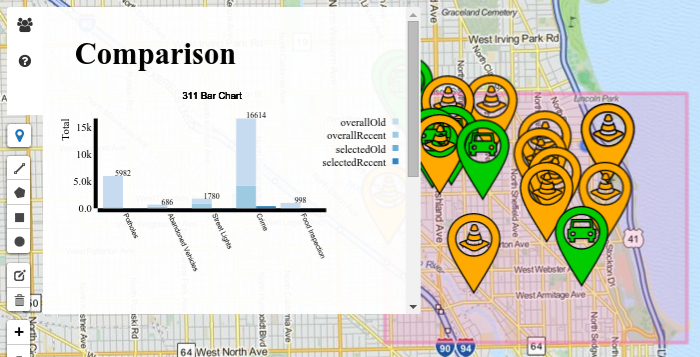
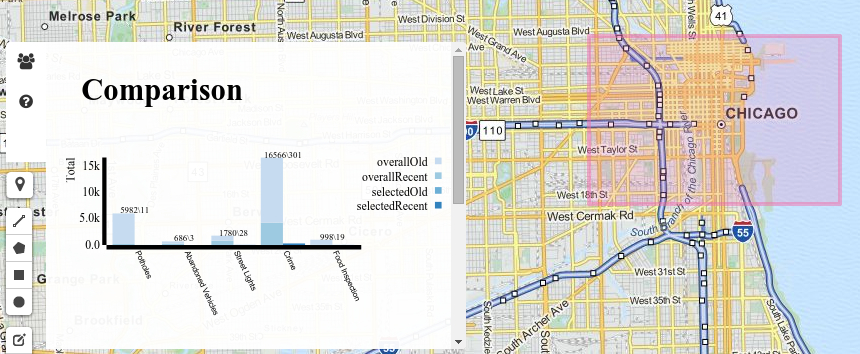
updated content

diff --git a/howto.html b/howto.html
@@ -69,10 +69,12 @@
 				<img src="images/howto_drawcircle.jpeg"></img>
 				<li><strong>Edit Shapes Bar</strong> enables the user to delete or resize a shape that was drawn earlier using "Draw Shapes Bar". For deleting, the user can first click the "delete" button, then using the mouse, click on the shape to delete, and finally click the save button. For resizing, the user can first click the "edit" button, then using the mouse, resize the shape on the map, and finally click the save button.
 				<img src="images/howto_deleteshape.jpeg"></img>
-				<img src="images/howto_editshape.jpeg"></img>
-				<li><strong>Information Bar</strong> contains three buttons. The first two buttons contain simple textual information regarding the name of the team members and a quick-start help guide. The third button displays two visualization graphs once the user draws a shape on the map.</li>
+				<img src="images/howto_editshape.jpeg"></img></li>
+				<li><strong>Information Bar</strong> contains three buttons. The first two buttons contain simple textual information regarding the name of the team members and a quick-start help guide. The third button displays two visualization graphs once the user draws a shape on the map.
 				<img src="images/howto_311datavisualization.jpeg"></img>
-				<img src="images/howto_crimedatavisualization.jpeg"></img>				
+				The "311 Bar Chart" is a bar chart that has been grouped by overall data for entire Chicago versus selected data for the shapes drawn on the map. It is also stacked by old (at least 1 week old, up to 1 month old) versus new (within 1 week) for potholes, abandoned vehicles, street lights, and food inspection. Note that for crime, the threshold for old versus new is actually 2 weeks instead of 1 week. For easy reading, we also provide the actual raw numbers for each bar on the chart (that is, for example "Potholes" in the screen shot has 598 total potholes in the entire city versus 11 potholes in the selected region, and since there is no darker shade of blue on the bar, that implies that all of the data is at least 1 week old, up to 1 month old).
+				<img src="images/howto_crimedatavisualization.jpeg"></img></li>
+				The "Crime Dist. Bar Chart" is a bar chart that has been grouped by overall data for entire Chicago versus selected data for the shapes drawn on the map. It is also stacked by old (at least 2 weeks old, up to 1 month old) versus new (within 2 weeks). The graph basically is a breakdown of the crime in the city versus selected area in more detail (burglary, narcotics, etc.). For easy reading, we also provide the actual raw numbers for each bar on the chart (that is, for example "burglary" in the screen shot has 882 total occurrences in the entire city versus just 9 reported incidents in the selected region, and since there is a small portion of darker shade of blue on the bar, that implies that most of the data is at least 2 weeks old, up to 1 month old).
 				<li><strong>Zoom Control Bar</strong></li>
 																				
 			</ul>
